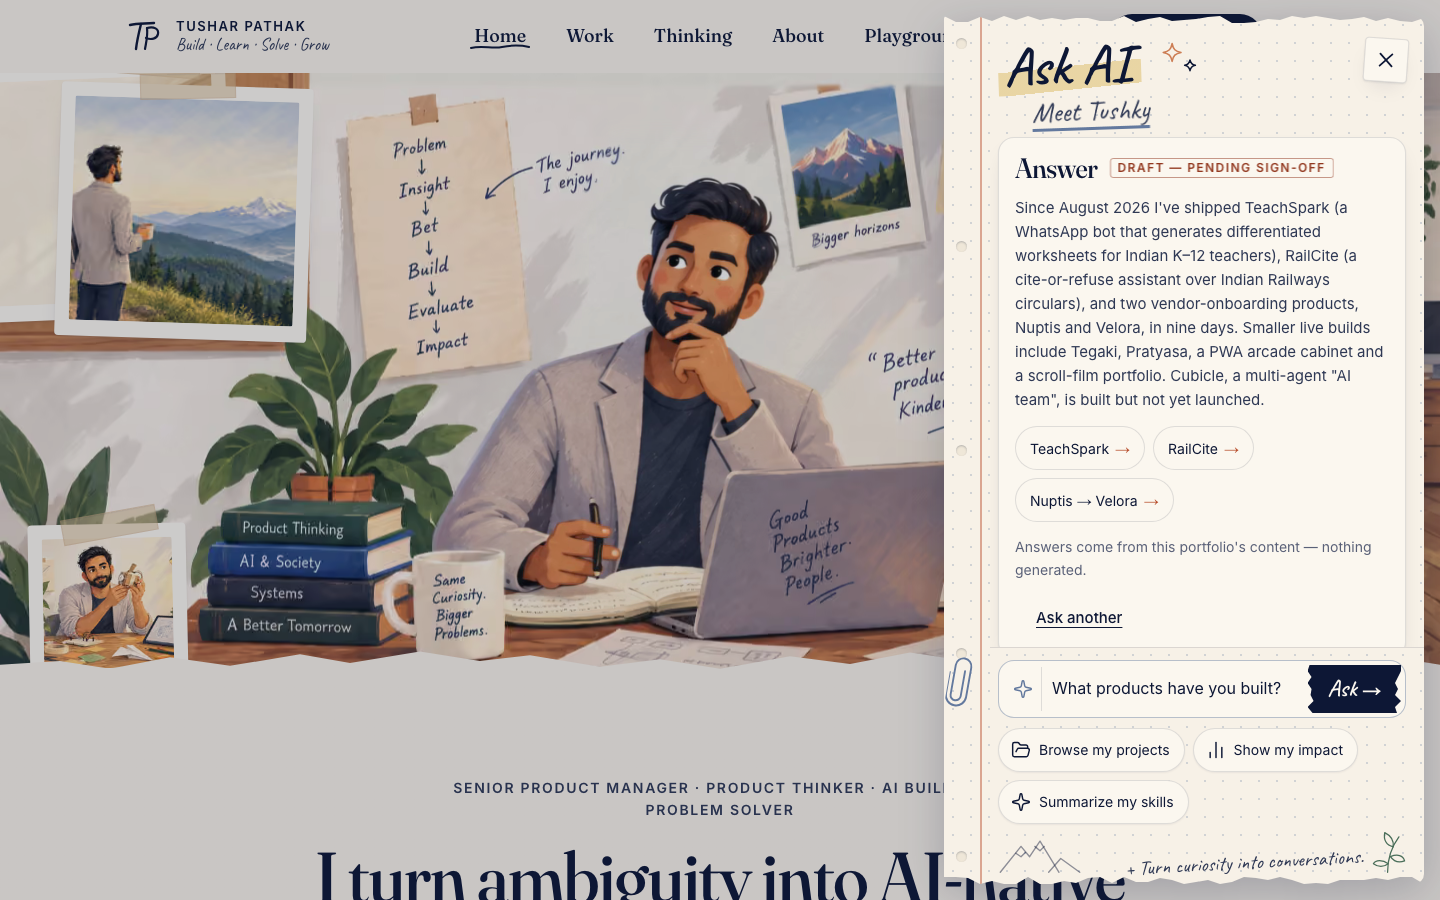
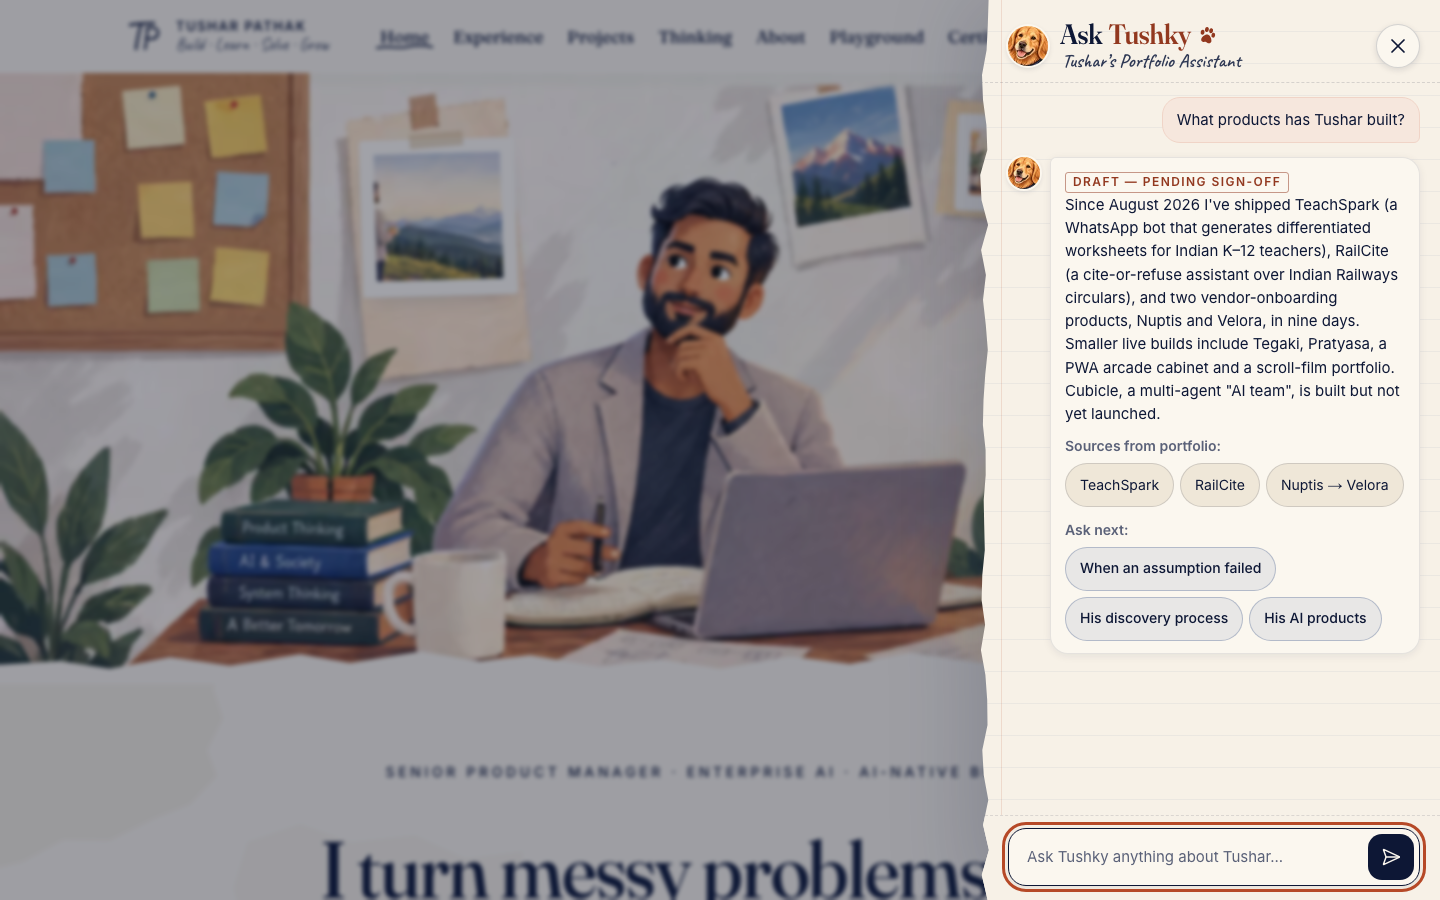
fix(ask): Ask Tushky drawer always slides out to the right via an explicit close keyframe (TKT-104 r2, TASK-101)
Dropping data-open removed the open animation and changed transform in the same style change, so
Chrome could skip the close transition and the drawer vanished in place at 768/1024. Closing now
runs its own data-closing keyframe (translateX 0 -> 100%, 280 ms, no bounce). The e2e samples every
close frame; the trigger helper follows the header's current Ask control. Adds the r2 report and
screenshots (empty/chat at 390/1440, pair-1440).

diff --git a/components/ai/AskPanel.tsx b/components/ai/AskPanel.tsx
@@ -18,7 +18,7 @@
  * Geometry (spec §2 / §22): fixed top/right/0, 100dvh, `clamp(400px, 32vw, 460px)` wide (460 at 1440),
  * and full-screen 100vw below 768. Motion (spec §3 / §24) is CSS keyed off `data-open`, which is
  * flipped one frame after `showModal()`. Opening is a 420 ms keyframe slide with a 4 px paper settle.
- * Closing is a 280 ms slide back to the right with no bounce, and the dialog closes after it ends.
+ * Closing sets `data-closing`: a 280 ms keyframe slide back to the right with no bounce, and the dialog closes after it ends.
  * Reduced motion appears and disappears in place.
  *
  * Body (spec §14 / §16): the header (flex-shrink 0), one independently scrolling region
@@ -63,6 +63,7 @@ export function AskPanel() {
     if (!dialog) return;
 
     if (panelOpen) {
+      dialog.removeAttribute("data-closing");
       if (!dialog.open) dialog.showModal();
       const frame = requestAnimationFrame(() => {
         dialog.setAttribute("data-open", "");
@@ -77,8 +78,17 @@ export function AskPanel() {
       dialog.close();
       return;
     }
-    const timer = setTimeout(() => dialog.close(), CLOSE_MS + 40); // + a frame or two so the slide completes
-    return () => clearTimeout(timer);
+    // Slide out to the right on its own keyframe (`data-closing`), then close once it has run.
+    dialog.setAttribute("data-closing", "");
+    const done = () => {
+      dialog.removeAttribute("data-closing");
+      if (dialog.open) dialog.close();
+    };
+    const timer = setTimeout(done, CLOSE_MS + 40); // + a frame or two so the slide completes
+    return () => {
+      clearTimeout(timer);
+      dialog.removeAttribute("data-closing");
+    };
   }, [panelOpen, reduced]);
 
   useEffect(() => {

diff --git a/tests/e2e/ask-panel.spec.ts b/tests/e2e/ask-panel.spec.ts
@@ -25,16 +25,18 @@ const input = (page: Page) => panel(page).locator("#ask-panel-input");
 const conversation = (page: Page) => panel(page).getByRole("log", { name: "Conversation with Tushky" });
 const lastAnswer = (page: Page) => panel(page).locator('.tk-turn[data-role="tushky"]').last();
 
-/** The width-appropriate trigger: the header's Ask ghost at lg+, the MobileMenu row below it. */
+/**
+ * The width-appropriate trigger: the header's Ask ghost wherever it is shown (its breakpoint moves
+ * with the header — TKT-112), otherwise the MobileMenu sheet's Ask row.
+ */
 async function trigger(page: Page) {
-  if (width(page) < 1024) {
-    const menu = page.locator('dialog[aria-label="Site navigation"]');
-    // The menu stays open behind the drawer, so a re-open uses its Ask row directly.
-    if (!(await menu.isVisible())) await page.getByRole("button", { name: "Open menu" }).click();
-    await expect(menu).toBeVisible();
-    return menu.getByRole("button", { name: "Ask AI" });
-  }
-  return page.locator("header").getByRole("button", { name: "Ask AI" });
+  const ghost = page.locator("header").getByRole("button", { name: "Ask AI" });
+  if (await ghost.isVisible()) return ghost;
+  const menu = page.locator('dialog[aria-label="Site navigation"]');
+  // The menu stays open behind the drawer, so a re-open uses its Ask row directly.
+  if (!(await menu.isVisible())) await page.getByRole("button", { name: "Open menu" }).click();
+  await expect(menu).toBeVisible();
+  return menu.getByRole("button", { name: "Ask AI" });
 }
 
 async function openPanel(page: Page): Promise<void> {

diff --git a/app/globals.css b/app/globals.css
@@ -323,6 +323,21 @@ body::before {
   transform: none;
   animation: ask-drawer-in 420ms cubic-bezier(0.22, 1, 0.36, 1);
 }
+/* Close is its own keyframe (not only the transition): dropping `data-open` removes the open
+   animation in the same style change, and Chrome then may skip the transform transition, so the
+   drawer would vanish in place. `data-closing` guarantees the slide back to the right, no bounce. */
+.ask-panel[data-closing] {
+  transform: translateX(100%);
+  animation: ask-drawer-out 280ms cubic-bezier(0.4, 0, 0.6, 1);
+}
+@keyframes ask-drawer-out {
+  from {
+    transform: translateX(0);
+  }
+  to {
+    transform: translateX(100%);
+  }
+}
 @keyframes ask-drawer-in {
   0% {
     transform: translateX(100%);
@@ -7445,6 +7460,7 @@ html.lenis body {
 
   @media (prefers-reduced-motion: reduce) {
     .ask-panel[data-open],
+    .ask-panel[data-closing],
     .ask-panel[data-open] .tk-mascot,
     .tk-dot,
     .tk-turn[data-msg="loading"] .tk-turn-avatar,

diff --git a/docs/reports/TKT-104-r2.md b/docs/reports/TKT-104-r2.md
@@ -1,0 +1,133 @@
+# TKT-104 round 2 — Ask Tushky right drawer (Campfire TASK-101, reopened)
+
+Spec: `docs/redesign-mockups/m-009/tushar-2026-09-26/ask-tushky-drawer-spec.md` (verbatim). Reference:
+`ask-tushky-drawer-target.png`. Plan (committed first, per spec §32): `docs/reports/TKT-104-r2-plan.md`.
+Design.md §11: **Dev-60** (drawer + chat), **Dev-61** (no attachment), **Dev-62** (mascot v2 + avatar), **Dev-63** (suggestions + follow-ups).
+
+## Spec §33 summary
+
+**1. Files changed**
+- `components/ai/AskPanel.tsx`: rewritten as the drawer shell. It is still the native `<dialog class="ask-panel">`, lazy (`AskPanelLazy`), uses `lockBackground`, and returns focus to `triggerRef`.
+- `components/ai/AskTushky.tsx` (new): `TushkyHeader`, `TushkyEmptyState`, `SuggestedQuestions`, `ChatConversation`, `ChatComposer`, `TushkyAvatar`, `Paw`.
+- `components/ai/ask-tushky-data.ts` (new): the data-driven suggestions `{label, query, category, entry}`, follow-up labels, and `followUpsFor` / `followUpsForPrompts`.
+- `components/ai/AskProvider.tsx`: adds `useAskChat()`, the multi-turn hook. `useAsk`, `openPanel`, `triggerRef` and the lazy mount are unchanged.
+- `components/ai/AnswerView.tsx`, `SuggestedPrompts.tsx`: restored to their pre-round-1 state. The panel-only `idleIntro` / `cardStyle` slots are gone, and the home notebook is unaffected.
+- `components/ai/AskPanelDecor.tsx`: deleted (round-1 doodles).
+- `app/globals.css`: the base `.ask-panel` geometry and motion rules were edited in place, and the `/* TKT-104 */ … /* end TKT-104 */` block was replaced in place.
+- Mascot: `public/media/illustrations/tushky-bandana.webp` and `tushky-avatar.webp` added, `tushky.webp` (v1) removed, with matching updates to `content/media/illustrations/manifest.ts` and `README.md`.
+- `Design.md`: Dev-60–63.
+- Tests: `tests/e2e/ask-panel.spec.ts` (rewritten), `tests/e2e/eval-007.spec.ts` (the keyboard answer path), `tests/unit/ask-tushky-grounding.test.ts` (new), `tests/unit/eval-021.test.ts`, `tests/unit/paper.test.tsx`; `tests/unit/ask-panel-quick.test.ts` deleted (the Dev-49 chips are retired).
+
+**2. Drawer width:** `clamp(400px, 32vw, 460px)`.
+
+| viewport | drawer width |
+|---|---|
+| 1440 | 460 px |
+| 1366 | 437 px |
+| 768–1249 | 400 px |
+| < 768 | 100vw full-screen |
+
+It is fixed at top/right 0 with `100dvh`. The page stays visible on the left under a navy 38% backdrop with a 2 px blur.
+
+**3. Animation:** CSS, not `motion/react`. The native top-layer `<dialog>` has to stay open until the slide-out finishes, so close is sequenced imperatively. CSS also keeps the global reduced-motion collapse and EVAL-010's computed-style checks valid.
+- **Open:** `data-open` is set one frame after `showModal()`. The keyframe runs `translateX(100%) → -4px → 0` over 420 ms with `cubic-bezier(.22,1,.36,1)`; the last step is the paper settle. A 12 px paper strip past the right edge hides the settle gap.
+- **Close:** a `data-closing` keyframe, 280 ms, `translateX(0 → 100%)` with no bounce, then `dialog.close()`.
+- **Backdrop:** fades in over 240 ms.
+- **Tushky:** a one-time mascot entrance (opacity, scale .97 → 1, rotate -1° → 0). The avatar breathes only while an answer is loading. Nothing loops once the drawer settles.
+
+**4. Empty-state structure:**
+- **Header:** Fraunces "Ask **Tushky**" plus a terracotta paw, 36 px. Caveat subtitle "Tushar's Portfolio Assistant" with a rust hand underline. A 44 px round close button.
+- **Mascot row:** the aria-hidden annotation "I sniff through Tushar's work so you don't have to.", the 124 px mascot, and the one taped sticky note (Caveat, aria-hidden, with an sr-only Inter twin so it is announced once).
+- **Intro card:** "Hi! I'm Tushky." followed by the spec copy.
+- **Suggestions:** "Try asking…" above six single-column rows, each with a 32 px pastel icon circle and an arrow.
+- **Composer:** pinned at the bottom.
+- **Short heights:** at `max-height: 860px` the mascot drops to 96 px and the rows to 48 px, so 1366×768 and 1024×768 fit without scrolling.
+
+**5. Chat state structure:**
+- `useAskChat()` holds `messages: ChatTurn[]`. A turn is either `{role:'user', text}` or `{role:'tushky', status: loading|answer|empty|error, query, answer}`, and `isGenerating` is derived from them.
+- Every turn is answered by the same retrieval-only provider with the 150 ms skeleton floor. Answers stay the verbatim entry text.
+- Once the first question is asked, the dog, the intro and the list collapse. The header shrinks and gains a 40 px avatar.
+- Tushky bubbles sit on the left with a 32 px avatar, a DraftTag where the entry is a draft, the answer text, "Sources from portfolio:" link chips (the evidence titles), and "Ask next:" chips (2–3, derived from the sources) on the latest answer only. User bubbles sit on the right with a light rust tint.
+- Error turns offer "Try again". Empty turns show the fallback plus the index's own suggestions as chips.
+- The view auto-scrolls so the newest question sits at the top: smooth normally, instant under reduced motion. Closing the drawer resets the conversation.
+
+**6. Typography changes:**
+
+| element | style |
+|---|---|
+| Title | Fraunces 600, 36 px (28 px in chat, 30 px on phones) |
+| Subtitle / "Try asking…" | Caveat `data-hand="label"`, 22 / 24 px |
+| Intro | 19 px headline, 15 px body |
+| Rows, bubbles, input | 15 px, line-height 1.55 in bubbles (14.5 px at short heights) |
+| Chips | 14 px |
+
+Every text size is ≥ 14 px (EVAL-008).
+
+**7. Responsive behaviour:**
+- **≥ 768:** the right drawer.
+- **< 768:** full-screen. The page is hidden behind it, the torn edge and shadow are dropped, the title is 30 px, the dog is 84 px, the "sniff" annotation is hidden, the sticky note is compact and inline beside the dog, the cards are full width, and the composer sits above `env(safe-area-inset-bottom)`.
+
+**8. Accessibility behaviour:**
+- `role="dialog"` (native `<dialog>` plus `showModal()`), `aria-modal="true"`, `aria-labelledby="ask-tushky-title"`.
+- Native focus trap. The page is inerted by `lockBackground`.
+- Esc, the close button and a backdrop click all take the same animated close path. Focus returns to the trigger that opened the drawer (the header ghost, the MobileMenu row, or TKT-108's hero CTA through the same `triggerRef` + `openPanel()`).
+- Focus lands in the composer on open and stays there after each question.
+- The conversation is a `role="log"` / `aria-live="polite"` region, with sr-only "You:" / "Tushky:" prefixes.
+- All controls are ≥ 44×44 with the rust focus ring (the composer field shows it via `:has(:focus-visible)`). Icons are aria-hidden; card names are the question text; Send is named "Send".
+- Reduced motion: no slide, no settle, no mascot entrance, no pulse or typing animation, no hover lift, no smooth scroll.
+
+**9. Compromises and calls:**
+- **Attachment button omitted (Dev-61).** Tushky can't read files, and a paperclip that does nothing would make a false promise.
+- **Two suggestions are remapped (Dev-63).** "Show me his product thinking process." submits the `discovery` prompt, and "Walk me through a specific project." submits `most-technical` (RailCite). As worded, both matched the product list. Tushar's wording is what the card and the user bubble show.
+- **"AI / cloud" has no cloud entry.** It answers from `ai-products` (score 0.67).
+- **"Compare his experience" is not offered.** It returns the empty fallback.
+- **The grounding note replaces the S7 microcopy line inside the drawer**, and is not repeated in the chat (spec: "do not duplicate").
+- **Answers read in first person** ("I've shipped…") because the answers are verbatim portfolio text; they were not rewritten, to keep the no-fabrication invariant.
+- **Card rows are 48 px on short screens** instead of the spec's 54–60 px, so the whole empty state fits 768-px-tall laptops.
+- **The z-index 0/40/50 stack is the browser top layer**, which also keeps the drawer above TKT-106's parallax layers.
+- **The user's own words now render in their bubble** as a React text node, never as HTML. Round 1 never echoed the query.
+- **Bug found while testing (and fixed):** `lockBackground()` inerts every `header` element, so a `<header>` inside the drawer made the close button unclickable. The drawer header is a `<div>`.
+
+## Grounding (EVAL-012 unchanged)
+
+| card (Tushar's wording) | submits | entry |
+|---|---|---|
+| What products has Tushar built? | as worded | `built` |
+| What impact has he created? | as worded | `impact` |
+| Show me his product thinking process. | "How do you approach product discovery?" | `discovery` |
+| What is his AI / cloud experience? | as worded | `ai-products` (0.67) |
+| What are his strongest skills? | as worded | `skills` |
+| Walk me through a specific project. | "Show me your most technical project." | `most-technical` |
+
+`tests/unit/ask-tushky-grounding.test.ts` pins all six cards. It also checks that every follow-up for every entry resolves to a sourced answer other than the one it follows, that follow-ups share a source page, that the empty-state chips are answerable, and that "Compare his experience" stays unanswerable.
+
+## Mascot v2 (Dev-62)
+
+- **Generation:** Higgsfield `gpt_image_2_5`, medium quality, 1k, transparent background, reference = job `7312a2c0-…`, job `20288256-cee5-4dcb-aa02-73a6e8be3647`. It cost **0.5 cr** (cap 2) and was accepted on the first attempt: "Tushky" is spelled correctly on the navy bandana, there is no badge, and the alpha is real.
+- **`tushky-bandana.webp`:** 231×280, 25,756 B.
+- **`tushky-avatar.webp`:** 64×64, 2,606 B.
+- Both load only inside the lazy drawer chunk. README provenance rows and sha256 values are recorded, and EVAL-021 and `paper.test` pin them.
+
+## Gates
+
+Targeted, through `heavy.sh`, on the branch after merging `m009/integration-ab` (`bffbf6f`):
+
+| gate | result |
+|---|---|
+| `pnpm typecheck` · `pnpm lint` · `pnpm tokens:check` | pass · pass · 13/13 |
+| `pnpm test` | 58 files, **623 passed**, 2 skipped |
+| `pnpm build` | pass; `/` first-load JS **159.1 kB gz** (budget 180; the drawer and mascot stay in the lazy chunk) |
+| e2e at all 4 widths: ask-panel, ask-inline, eval-006, eval-007, eval-008, eval-010, tracer | **551 passed**, 36 failed, 553 skipped. All 36 failures were at w1440 after the browser crashed mid-run (27 × "Target page, context or browser has been closed", 9 × `page.goto` timeout on an 8 GB host under load). Rerunning those specs on w1440 alone gave **272 passed**, 1 failed. That one failure, eval-010's home hover-sweep "positive control", passes when rerun alone (**1 passed**): it is flaky under load and doesn't touch the drawer. |
+| `@TC-051 opens from the RIGHT and closes to the RIGHT` | passes at **w390 / w768 / w1024 / w1440**. Geometry: 400 px at 768/1024, 460 px at 1440, full-screen (= viewport width) at 390 |
+| `@EVAL-008` empty state fits one view | 1440×900, 1366×768 and 1024×768: no drawer scroll, composer flush to the bottom |
+
+**Right-drawer root cause (fixed).** Closing only removed `data-open`. That removes the open keyframe and changes `transform` in the same style change, and Chrome sometimes skipped the transition. At 768 and 1024 the drawer then vanished in place instead of sliding right. Closing now sets `data-closing`, which runs its own 280 ms `translateX(0 → 100%)` keyframe; the dialog closes after it. The e2e samples every frame of the close from inside the page: the drawer's translateX only ever increases and never goes negative (no bounce).
+
+**Other checks and notes**
+- **Triggers:** the header "Ask AI" ghost and the MobileMenu row both open the drawer. The test helper now uses whichever Ask control the header currently shows, because TKT-112 moved the breakpoint.
+- **Hero CTA doesn't open the drawer.** TKT-108's "✦ Ask Tushky" is `<a href="#ask">`, which scrolls to the home Ask section. To make it open the drawer, it has to set `triggerRef.current` and call `openPanel()` from `useAskContext()`, as `AskAIButton` does. That file belongs to TKT-108 / TKT-113, so I didn't change it.
+- **Pre-existing, not this ticket:** `eval-007` "mobile menu … rows toHaveCount(5)" failed at w390 in an earlier run because TKT-102 added a sixth nav item (Certifications). It passed in the post-merge run.
+
+## Screenshots
+
+`docs/screenshots/m-009/tkt-104r2/`: `empty-1440.png`, `empty-390.png`, `chat-1440.png`, `chat-390.png`, `pair-1440.png` (target on the left, build on the right). The TC-149 pack `docs/screenshots/m-009/ask-panel-{390,1440}.png` now shows the drawer's chat state.
